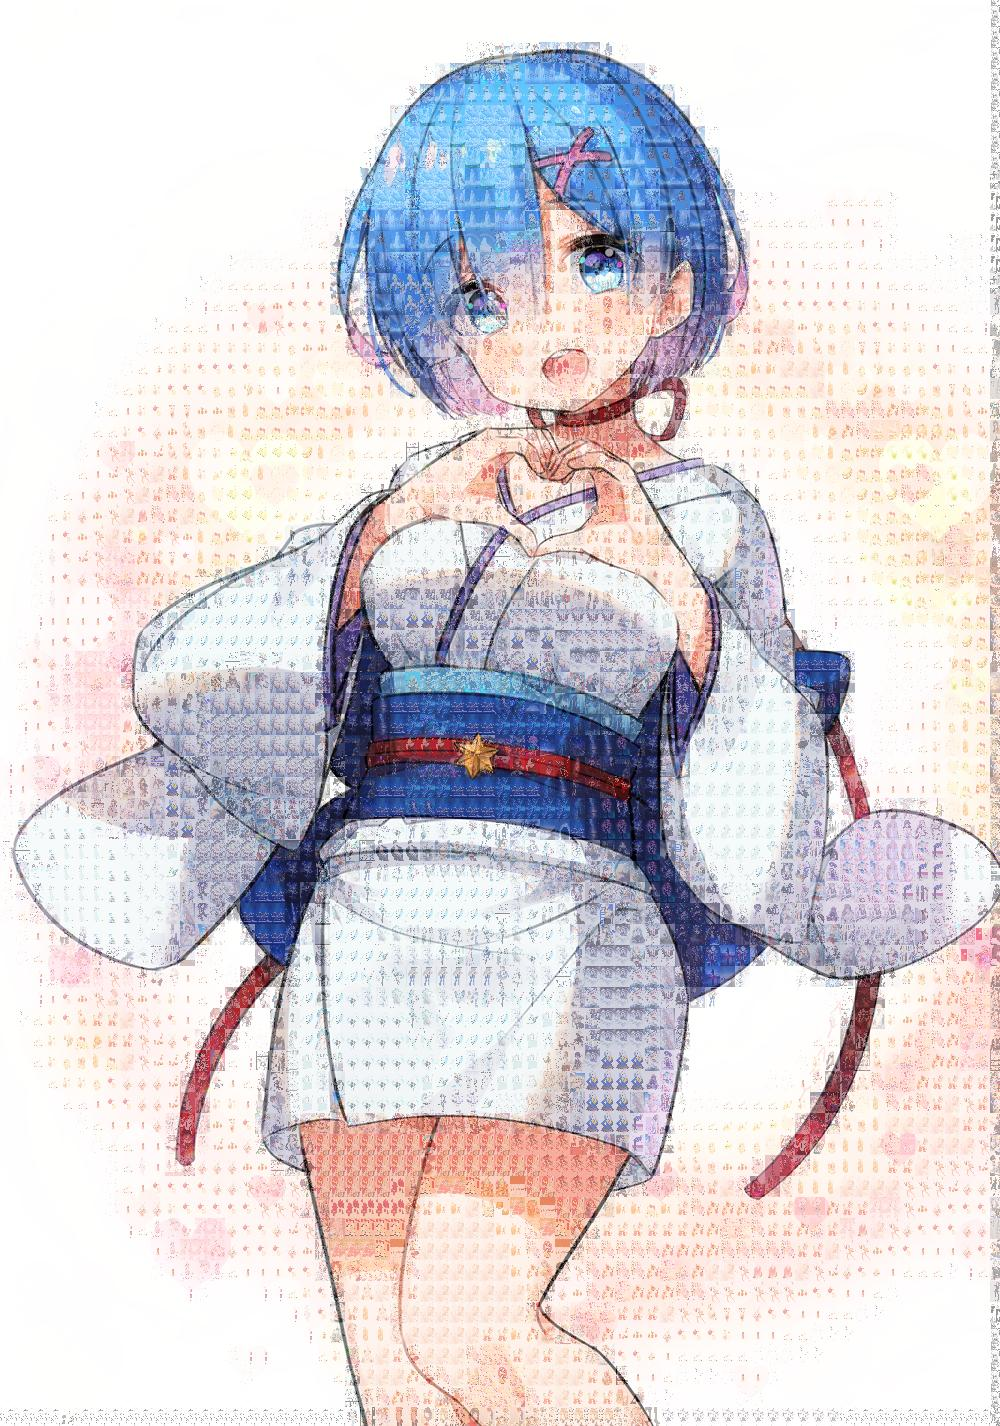
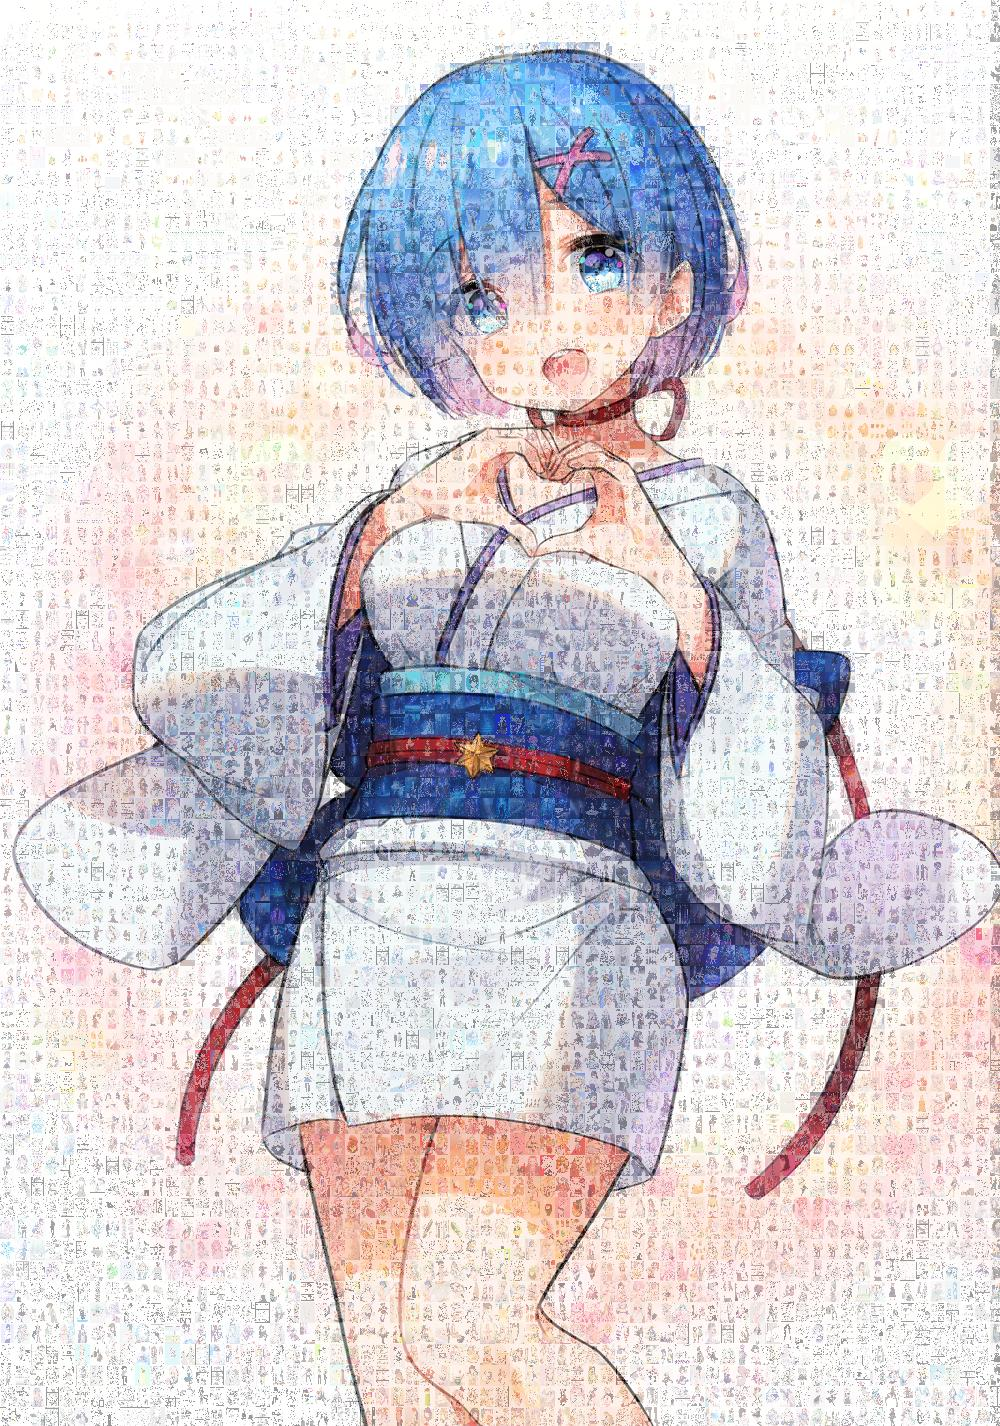
fixes

Changed region(s): [[0.0, 0.0, 1.0, 1.0], [0.837, 0.0926, 0.868, 0.1234], [0.806, 0.0309, 0.837, 0.0617]]

diff --git a/main.py b/main.py
@@ -173,8 +173,7 @@ def _load_database(folder, chunk_width, chunk_height, repeat):
 
     return database
 
-
-def make_from(img, folder, amountx, amounty, repeat=True):
+def make_from(img, folder, amountx, amounty, use_repeat=True):
 
     width, height = img.size
 
@@ -185,7 +184,7 @@ def make_from(img, folder, amountx, amounty, repeat=True):
 
     print('result dimension:', width, height)
     print('total chunks:', total_chunks)
-    print('repeat:', repeat)
+    print('repeat:', use_repeat)
 
     if chunk_width < 1 or chunk_height < 1:
         raise ValueError('width or height for each small piece of images is less than 1px:', width, height, '/', amountx, amounty)
@@ -202,7 +201,7 @@ def make_from(img, folder, amountx, amounty, repeat=True):
             curr_chunk = img.crop((w, h, btmx, btmy))
             best_match = database.find_closest(curr_chunk)
             background.paste(best_match.img, (w, h))
-            if not repeat:
+            if not use_repeat:
                 database.remove(best_match) # remove used images
             chunk_count += 1
             print('\r >>>', chunk_count, '/' , total_chunks, '=> {}%'.format(math.ceil(chunk_count / total_chunks * 100)),  end='')
@@ -219,14 +218,14 @@ def main():
     parser.add_argument('destination', help='the base name of the output file, not including extension')
     parser.add_argument('amountx', type=int, help='the number of pieces to break down width')
     parser.add_argument('amounty', type=int, help='the number of pieces to break down height')
-    parser.add_argument('--repeat', help='allow build with repeating images')
+    parser.add_argument('-r', '--repeat', action='store_true', help='allow build with repeating images')
     args = parser.parse_args()
 
     input_file = args.source
     output_file = args.destination + '{}.jpg'
     database_folder = args.folder
     src = Image.open(input_file)
-    background = make_from(src, database_folder, args.amountx, args.amounty, repeat=args.repeat)
+    background = make_from(src, database_folder, args.amountx, args.amounty, use_repeat=args.repeat)
     background.save(args.destination + '_background_{}.jpg'.format('repeat' if repeat else 'no_repeat'))
     for blend_percent in range(0, 10):
         blend_percent = blend_percent / 10
